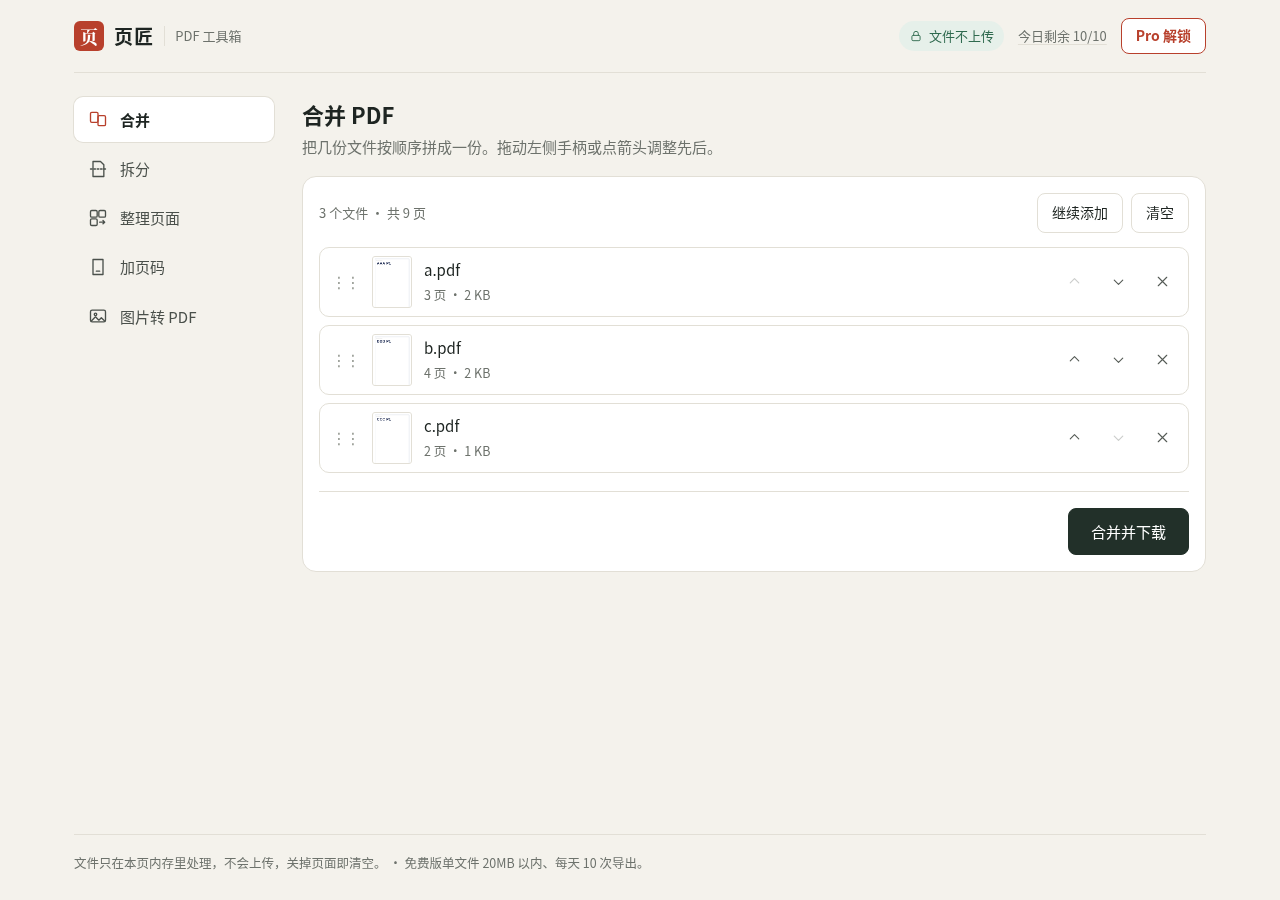
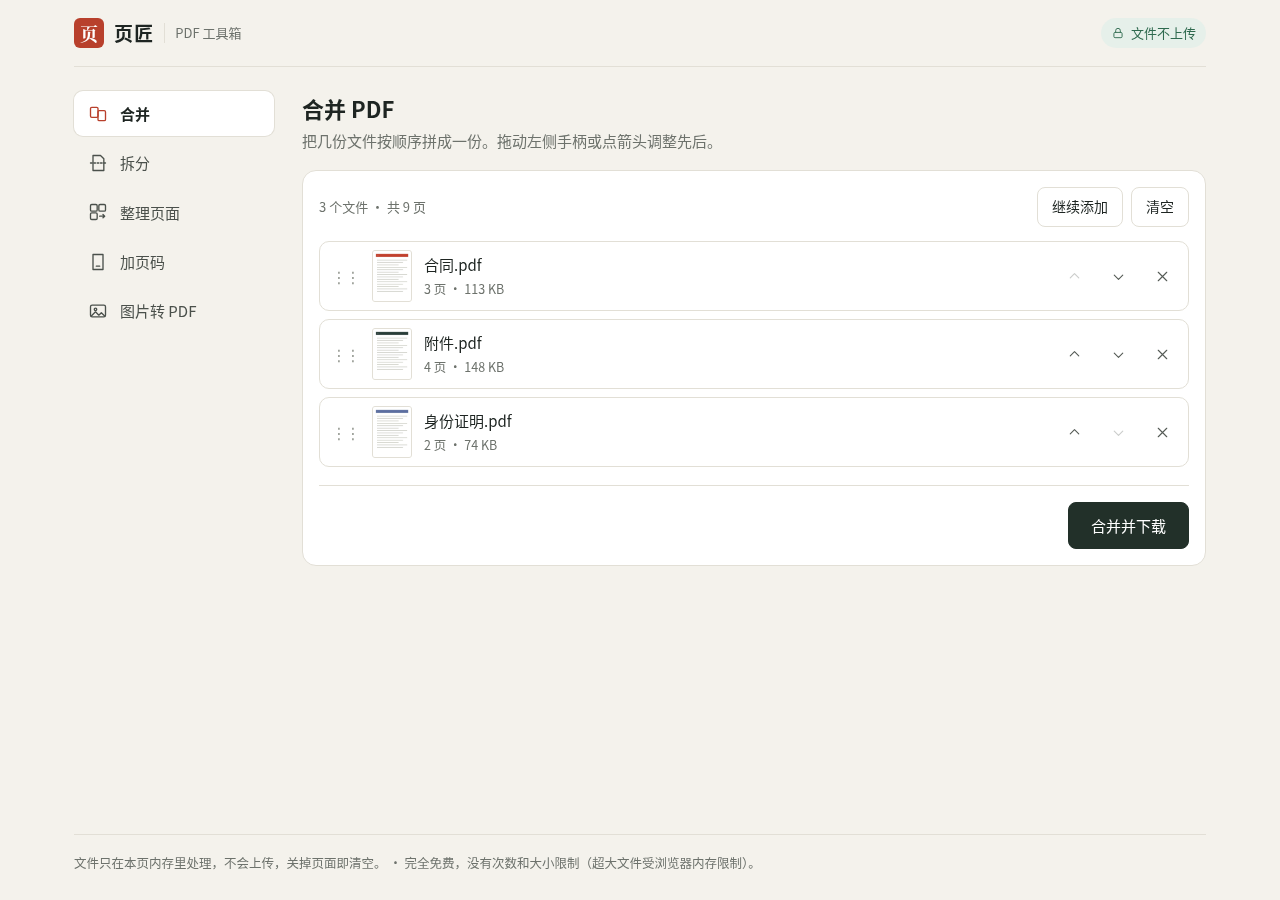
去掉 Pro/授权码/限额，全部功能完全免费

diff --git a/index.html b/index.html
@@ -15,8 +15,6 @@
     <div class="brand"><span class="seal">页</span><b>页匠</b><span class="sub">PDF 工具箱</span></div>
     <div class="top-r">
       <span class="privacy" title="所有处理都在本页内完成，没有任何上传请求"><svg viewBox="0 0 24 24"><rect x="5" y="11" width="14" height="9" rx="2"/><path d="M8 11V8a4 4 0 0 1 8 0v3"/></svg>文件不上传</span>
-      <button id="usage" class="usage" type="button"></button>
-      <button id="proBtn" class="btn pro" type="button">Pro</button>
     </div>
   </header>
 
@@ -33,7 +31,7 @@
     <section class="panel on" id="p-merge">
       <div class="ph"><h2>合并 PDF</h2><p>把几份文件按顺序拼成一份。拖动左侧手柄或点箭头调整先后。</p></div>
       <label class="drop" id="drop-merge"><input type="file" accept="application/pdf,.pdf" multiple>
-        <b>点击选择，或把 PDF 拖到这里</b><span>可多选 · 免费版最多合并 5 个文件</span></label>
+        <b>点击选择，或把 PDF 拖到这里</b><span>可多选 · 合并个数不限</span></label>
       <div class="work" hidden>
         <div class="bar"><span id="merge-info" class="muted"></span><span class="sp"></span>
           <label class="btn ghost addmore">继续添加<input type="file" accept="application/pdf,.pdf" multiple hidden></label>
@@ -47,7 +45,7 @@
     <section class="panel" id="p-split">
       <div class="ph"><h2>拆分 / 提取页面</h2><p>输入页码范围，或直接点缩略图选页。</p></div>
       <label class="drop" id="drop-split"><input type="file" accept="application/pdf,.pdf">
-        <b>点击选择，或把 PDF 拖到这里</b><span>单个文件 · 20MB 以内</span></label>
+        <b>点击选择，或把 PDF 拖到这里</b><span>单个文件</span></label>
       <div class="work" hidden>
         <div class="bar"><span id="split-info" class="muted"></span><span class="sp"></span>
           <button class="btn ghost" data-act="clear" type="button">换一个文件</button></div>
@@ -57,8 +55,8 @@
         </div>
         <div class="seg" id="split-mode">
           <label><input type="radio" name="smode" value="one" checked><span>所选页合成一个文件</span></label>
-          <label><input type="radio" name="smode" value="ranges"><span>每个范围单独成文件 <i class="tag">Pro</i></span></label>
-          <label><input type="radio" name="smode" value="each"><span>每页一个文件 <i class="tag">Pro</i></span></label>
+          <label><input type="radio" name="smode" value="ranges"><span>每个范围单独成文件</span></label>
+          <label><input type="radio" name="smode" value="each"><span>每页一个文件</span></label>
         </div>
         <div class="grid sm" id="split-grid"></div>
         <div class="actions"><span id="split-sel" class="muted"></span><button class="btn primary" id="split-go" type="button">提取并下载</button></div>
@@ -69,7 +67,7 @@
     <section class="panel" id="p-organize">
       <div class="ph"><h2>整理页面</h2><p>旋转、删除、拖拽调整顺序，所见即所得。</p></div>
       <label class="drop" id="drop-organize"><input type="file" accept="application/pdf,.pdf">
-        <b>点击选择，或把 PDF 拖到这里</b><span>单个文件 · 20MB 以内</span></label>
+        <b>点击选择，或把 PDF 拖到这里</b><span>单个文件</span></label>
       <div class="work" hidden>
         <div class="bar"><span id="org-info" class="muted"></span><span class="sp"></span>
           <button class="btn ghost" data-act="rl" type="button">全部左转</button>
@@ -85,7 +83,7 @@
     <section class="panel" id="p-pagenum">
       <div class="ph"><h2>添加页码</h2><p>选位置和样式，一键写入每一页。已旋转的页面也会摆正。</p></div>
       <label class="drop" id="drop-pagenum"><input type="file" accept="application/pdf,.pdf" multiple>
-        <b>点击选择，或把 PDF 拖到这里</b><span>免费版一次一个文件，Pro 可批量并打包 ZIP</span></label>
+        <b>点击选择，或把 PDF 拖到这里</b><span>可多选批量处理，多个文件自动打包 ZIP</span></label>
       <div class="work" hidden>
         <div class="bar"><span id="pn-info" class="muted"></span><span class="sp"></span>
           <button class="btn ghost" data-act="clear" type="button">换文件</button></div>
@@ -114,7 +112,7 @@
     <section class="panel" id="p-img">
       <div class="ph"><h2>图片转 PDF</h2><p>照片、截图、扫描件按顺序排成一份 PDF。手机拍照的方向会自动摆正。</p></div>
       <label class="drop" id="drop-img"><input type="file" accept="image/*" multiple>
-        <b>点击选择，或把图片拖到这里</b><span>JPG / PNG / WebP 等 · 免费版最多 20 张</span></label>
+        <b>点击选择，或把图片拖到这里</b><span>JPG / PNG / WebP 等 · 张数不限</span></label>
       <div class="work" hidden>
         <div class="bar"><span id="img-info" class="muted"></span><span class="sp"></span>
           <label class="btn ghost addmore">继续添加<input type="file" accept="image/*" multiple hidden></label>
@@ -131,29 +129,9 @@
     <div class="result" id="result" hidden><span class="ok">✓</span><span id="result-t"></span><a class="btn ghost" id="result-a" href="#">再次下载</a></div>
   </main>
 
-  <footer class="foot">文件只在本页内存里处理，不会上传，关掉页面即清空。 · 免费版单文件 20MB 以内、每天 10 次导出。</footer>
+  <footer class="foot">文件只在本页内存里处理，不会上传，关掉页面即清空。 · 完全免费，没有次数和大小限制（超大文件受浏览器内存限制）。</footer>
 </div>
 
-<div class="modal" id="modal" hidden>
-  <div class="sheet" role="dialog" aria-modal="true" aria-labelledby="m-t">
-    <button class="x" id="m-x" type="button" aria-label="关闭">×</button>
-    <h3 id="m-t">页匠 Pro</h3>
-    <p class="muted" id="m-why">解除免费版限制，适合经常处理文件的人。</p>
-    <table class="cmp"><tr><th></th><th>免费</th><th>Pro</th></tr>
-      <tr><td>单文件大小</td><td>20MB</td><td>不限制</td></tr>
-      <tr><td>每天导出</td><td>10 次</td><td>不限次数</td></tr>
-      <tr><td>合并文件数</td><td>5 个</td><td>不限</td></tr>
-      <tr><td>图片转 PDF 张数</td><td>20 张</td><td>不限</td></tr>
-      <tr><td>批量加页码 / 按范围拆成多文件</td><td>—</td><td>✓ 打包 ZIP</td></tr>
-    </table>
-    <div id="m-state" class="state" hidden>当前已解锁 Pro。<button class="btn ghost" id="m-off" type="button">移除授权码</button></div>
-    <div id="m-form">
-      <label class="fld">授权码<input id="m-key" type="text" autocomplete="off" spellcheck="false" placeholder="PBOX-XXXX-XXXX-XXXX"></label>
-      <div class="actions"><span id="m-msg" class="muted"></span><button class="btn primary" id="m-ok" type="button">解锁</button></div>
-      <p class="hint">授权码只在本机校验并保存在浏览器里。购买入口暂未开通。</p>
-    </div>
-  </div>
-</div>
 <div class="busy" id="busy" hidden><div><i class="spin"></i><span id="busy-t">处理中…</span></div></div>
 <div class="toast" id="toast" role="status" hidden></div>
 

diff --git a/tests/smoke.js b/tests/smoke.js
@@ -1,0 +1,66 @@
+// 自测：先 python3 -m http.server 8768 &，再 node tests/smoke.js（需 puppeteer-core、本机 Chrome、Pillow）
+const puppeteer = require('puppeteer-core'), { execSync } = require('child_process'), fs = require('fs'), os = require('os'), path = require('path');
+const URL_ = process.env.URL || 'http://localhost:8768/index.html';
+let fail = 0; const ok = (c, m) => { console.log((c ? '  ✓ ' : '  ✗ FAIL: ') + m); if (!c) fail++; };
+(async () => {
+  const dir = fs.mkdtempSync(path.join(os.tmpdir(), 'pb-'));
+  execSync(`python3 -c "
+from PIL import Image
+import random
+for i in range(8):
+    pages=[Image.new('RGB',(600,800),(30*i%255,100,200-10*i)) for _ in range(3)]
+    pages[0].save('${dir}/a%d.pdf'%i,save_all=True,append_images=pages[1:])
+# 超过 20MB 的 PDF（原免费版会拦）
+big=[Image.frombytes('RGB',(3000,2400),random.randbytes(3000*2400*3)) for _ in range(4)]
+big[0].save('${dir}/big.pdf',save_all=True,append_images=big[1:],quality=98)
+for i in range(25): Image.new('RGB',(400,300),(i*9,80,160)).save('${dir}/i%02d.png'%i)
+"`);
+  const size = fs.statSync(path.join(dir, 'big.pdf')).size;
+  const pdfs = [...Array(8).keys()].map(i => path.join(dir, `a${i}.pdf`)), imgs = [...Array(25).keys()].map(i => path.join(dir, `i${String(i).padStart(2, '0')}.png`));
+  const b = await puppeteer.launch({ executablePath: '/usr/bin/google-chrome', headless: 'new', args: ['--no-sandbox'] });
+  const p = await b.newPage(); const errs = []; p.on('pageerror', e => errs.push(e.message));
+  await p.goto(URL_, { waitUntil: 'networkidle0' });
+  const html0 = await p.evaluate(() => document.documentElement.outerHTML);
+  ok(!/Pro\b|授权码|付费|收费|解锁|今日剩余|免费版/.test(html0), '页面不含 Pro/授权码/付费/解锁/免费版限额字样');
+  ok(!(await p.$('#proBtn')) && !(await p.$('#usage')) && !(await p.$('#modal')) && !(await p.$('#m-key')), '无 Pro 按钮/用量/弹窗/授权码输入');
+  ok(html0.includes('完全免费'), '页面标明完全免费');
+  const res = () => p.$eval('#result-t', e => e.textContent);
+  const waitRes = async (prev) => { await p.waitForFunction((x) => { const r = document.querySelector('#result'); return !r.hidden && document.querySelector('#result-t').textContent !== x; }, { timeout: 90000 }, prev); return res(); };
+  // 合并：8 个文件（原限 5），连续导出 12 次（原限每天 10 次）
+  await (await p.$('#drop-merge input')).uploadFile(...pdfs);
+  await p.waitForFunction(() => document.querySelectorAll('#merge-list > *').length === 8, { timeout: 30000 }).catch(() => {});
+  const mc = await p.$$eval('#merge-list > *', e => e.length);
+  ok(mc === 8, '一次合并 8 个文件无个数限制，实际 ' + mc);
+  let last = '', names = new Set();
+  for (let i = 0; i < 12; i++) { await p.evaluate(() => { document.querySelector('#result').hidden = true; document.querySelector('#result-t').textContent = ''; }); await p.click('#merge-go'); last = await waitRes(''); names.add(last); }
+  ok(/合并-8个文件\.pdf/.test(last) && /24 页/.test(last), '连续导出 12 次仍可用，最后结果：' + last);
+  // 拆分：大文件 + 每页一个文件（原 Pro）
+  await p.click('#tabs button[data-tool=split]');
+  await (await p.$('#drop-split input')).uploadFile(path.join(dir, 'big.pdf'));
+  await p.waitForFunction(() => document.querySelectorAll('#split-grid .card').length > 0, { timeout: 60000 });
+  ok(size > 20 * 1024 * 1024, '测试 PDF 大小 ' + (size / 1048576).toFixed(1) + 'MB > 20MB，已成功载入');
+  await p.click('#split-mode input[value=each]');
+  ok(await p.$eval('#split-mode input[value=each]', e => e.checked), '“每页一个文件”可直接选中');
+  await p.click('#p-split .chips button[data-q=all]');
+  await p.click('#split-go'); const z = await waitRes('');
+  ok(/\.zip/.test(z) && /4 个文件/.test(z), '逐页拆分打包 ZIP：' + z);
+  // 页码：批量多个文件（原 Pro）
+  await p.click('#tabs button[data-tool=pagenum]');
+  await (await p.$('#drop-pagenum input')).uploadFile(pdfs[0], pdfs[1], pdfs[2]);
+  await p.waitForFunction(() => /批量/.test(document.querySelector('#pn-info').textContent), { timeout: 30000 });
+  await p.evaluate(() => { document.querySelector('#result').hidden = true; });
+  await p.click('#pn-go'); const pz = await waitRes('');
+  ok(/\.zip/.test(pz) && /3 个文件/.test(pz), '批量加页码打包 ZIP：' + pz);
+  // 图片转 PDF：25 张（原限 20）
+  await p.click('#tabs button[data-tool=img]');
+  await (await p.$('#drop-img input')).uploadFile(...imgs);
+  await p.waitForFunction(() => document.querySelectorAll('#img-grid > *').length === 25, { timeout: 30000 }).catch(() => {});
+  const ic = await p.$$eval('#img-grid > *', e => e.length); ok(ic === 25, '图片 25 张全部加入，实际 ' + ic);
+  await p.evaluate(() => { document.querySelector('#result').hidden = true; });
+  await p.click('#img-go'); const ir = await waitRes('');
+  ok(/图片合集-25张\.pdf/.test(ir), '25 张图转 PDF：' + ir);
+  ok(await p.evaluate(() => !localStorage.getItem('pdfbox.use') && !localStorage.getItem('pdfbox.key')), '不再读写用量/授权存储');
+  ok(errs.length === 0, '无脚本错误 ' + errs.join(';'));
+  await b.close(); fs.rmSync(dir, { recursive: true });
+  console.log(fail ? '失败 ' + fail : '全部通过'); process.exit(fail ? 1 : 0);
+})().catch(e => { console.error(e); process.exit(2); });

diff --git a/style.css b/style.css
@@ -14,13 +14,10 @@ svg{width:20px;height:20px;fill:none;stroke:currentColor;stroke-width:1.6;stroke
 .top-r{display:flex;align-items:center;gap:10px}
 .privacy{display:flex;align-items:center;gap:6px;font-size:13px;color:#2f6a4f;background:#e6f0ea;padding:5px 10px;border-radius:99px;white-space:nowrap}
 .privacy svg{width:14px;height:14px}
-.usage{white-space:nowrap;background:none;border:0;color:var(--mute);font-size:13px;cursor:pointer;padding:6px 4px;text-decoration:underline;text-decoration-color:var(--line);text-underline-offset:3px}
 .btn{display:inline-flex;align-items:center;justify-content:center;gap:6px;border:1px solid var(--line);background:var(--card);border-radius:8px;padding:8px 14px;cursor:pointer;font-size:14px;white-space:nowrap;transition:background .12s,border-color .12s}
 .btn:hover{border-color:#c9c5b9;background:#faf9f6}
 .btn.primary{background:var(--dk);border-color:var(--dk);color:#fff;padding:11px 22px;font-size:15px}
 .btn.primary:hover{background:#17211b}
-.btn.pro{border-color:var(--ac);color:var(--ac);font-weight:600;padding:6px 14px}
-.btn.pro.on{background:var(--ac);color:#fff}
 .btn.ghost{background:transparent}
 .btn:disabled{opacity:.45;cursor:not-allowed}
 .tabs{grid-area:nav;display:flex;flex-direction:column;gap:4px;align-self:start;position:sticky;top:16px}
@@ -90,7 +87,6 @@ main{grid-area:main;min-width:0;padding-bottom:40px}
 .seg span{display:inline-flex;align-items:center;gap:6px;border:1px solid var(--line);border-radius:8px;padding:7px 12px;font-size:13.5px;background:#fff}
 .seg input:checked+span{border-color:var(--dk);background:var(--sel);font-weight:600}
 .seg input:focus-visible+span{outline:2px solid #d9a99f}
-.tag{font-style:normal;font-size:11px;color:var(--ac);border:1px solid var(--ac);border-radius:4px;padding:0 4px;line-height:16px}
 .pn-wrap{display:grid;grid-template-columns:minmax(200px,300px) 1fr;gap:24px;align-items:start}
 .pn-prev{background:#f3f1ea;border-radius:10px;padding:16px;display:grid;place-items:center;min-height:260px}
 .pv{position:relative;display:inline-block;line-height:0;box-shadow:0 2px 10px rgba(0,0,0,.18);background:#fff}
@@ -109,15 +105,7 @@ input[type=range]{width:100%;accent-color:var(--dk)}
 .result .btn{color:#fff;border-color:#ffffff55}
 .result .btn:hover{background:#ffffff1a}
 .foot{grid-area:foot;color:var(--mute);font-size:12.5px;padding:18px 0 28px;border-top:1px solid var(--line)}
-.modal{position:fixed;inset:0;background:rgba(25,30,27,.45);display:grid;place-items:center;padding:16px;z-index:20}
-.sheet{position:relative;background:#fff;border-radius:14px;padding:24px;width:min(460px,100%);max-height:92vh;overflow:auto}
-.sheet h3{margin:0 0 4px;font-size:19px}
 .x{position:absolute;right:12px;top:10px;width:34px;height:34px;border:0;background:none;font-size:26px;cursor:pointer;color:var(--mute)}
-.cmp{width:100%;border-collapse:collapse;margin:14px 0 18px;font-size:14px}
-.cmp th,.cmp td{padding:8px 6px;border-bottom:1px solid var(--line);text-align:left}
-.cmp th{color:var(--mute);font-weight:500;font-size:13px}
-.cmp td:last-child{color:var(--ac);font-weight:600}
-.state{background:#e6f0ea;color:#2f6a4f;border-radius:8px;padding:10px 12px;display:flex;align-items:center;justify-content:space-between;gap:8px;margin-bottom:6px}
 .busy{position:fixed;inset:0;background:rgba(244,242,236,.7);display:grid;place-items:center;z-index:30}
 .busy>div{background:#fff;border:1px solid var(--line);border-radius:12px;padding:14px 20px;display:flex;gap:12px;align-items:center;box-shadow:0 6px 20px rgba(0,0,0,.1)}
 .spin{width:18px;height:18px;border:2px solid var(--line);border-top-color:var(--ac);border-radius:50%;animation:sp .8s linear infinite}
@@ -128,8 +116,7 @@ input[type=range]{width:100%;accent-color:var(--dk)}
  .top{padding:12px 0;margin-bottom:14px}
  .brand .sub,.privacy span{display:none}
  .privacy{padding:6px}
- .usage{font-size:12px}
- .tabs{position:fixed;left:0;right:0;bottom:0;top:auto;flex-direction:row;background:#fbfaf7;border-top:1px solid var(--line);padding:6px 6px calc(6px + env(safe-area-inset-bottom));gap:0;z-index:10}
+  .tabs{position:fixed;left:0;right:0;bottom:0;top:auto;flex-direction:row;background:#fbfaf7;border-top:1px solid var(--line);padding:6px 6px calc(6px + env(safe-area-inset-bottom));gap:0;z-index:10}
  .tabs button{flex:1;flex-direction:column;gap:2px;padding:6px 2px;font-size:11.5px;align-items:center;text-align:center;border-radius:8px}
  .tabs button.on{box-shadow:none;background:#efece4}
  .ph h2{font-size:20px}

diff --git a/tests/shots.js b/tests/shots.js
@@ -1,0 +1,36 @@
+// 生成 screenshots/：python3 -m http.server 8768 & ; node tests/shots.js（示例文件为程序生成的虚构内容）
+const puppeteer = require('puppeteer-core'), { execSync } = require('child_process'), fs = require('fs'), os = require('os'), path = require('path');
+const URL_ = process.env.URL || 'http://localhost:8768/index.html';
+(async () => {
+  const dir = fs.mkdtempSync(path.join(os.tmpdir(), 'pbs-'));
+  execSync(`python3 -c "
+from PIL import Image, ImageDraw, ImageFont
+def mk(name, n, title, col):
+    pages=[]
+    for i in range(n):
+        im=Image.new('RGB',(794,1123),'white'); d=ImageDraw.Draw(im)
+        d.rectangle((60,60,734,120),fill=col); d.text((80,80),'%s  P%d'%(title,i+1),fill='white')
+        for k in range(14): d.rectangle((80,180+k*50,714-(k%3)*90,196+k*50),fill=(215,215,210))
+        pages.append(im)
+    pages[0].save('${dir}/'+name,save_all=True,append_images=pages[1:])
+mk('合同.pdf',3,'Contract',(193,63,45)); mk('附件.pdf',4,'Appendix',(40,60,56)); mk('身份证明.pdf',2,'ID',(90,110,160))
+for i in range(4): Image.new('RGB',(900,600),(200-i*30,170,120+i*20)).save('${dir}/照片%d.jpg'%(i+1))
+"`);
+  const pdfs = ['合同.pdf', '附件.pdf', '身份证明.pdf'].map(f => path.join(dir, f)), imgs = [1, 2, 3, 4].map(i => path.join(dir, `照片${i}.jpg`));
+  const b = await puppeteer.launch({ executablePath: '/usr/bin/google-chrome', headless: 'new', args: ['--no-sandbox', '--lang=zh-CN'] });
+  const sleep = ms => new Promise(r => setTimeout(r, ms));
+  for (const mobile of [false, true]) {
+    const p = await (await b.createBrowserContext()).newPage();
+    await p.setViewport(mobile ? { width: 390, height: 844, isMobile: true, deviceScaleFactor: 2 } : { width: 1280, height: 900 });
+    await p.goto(URL_, { waitUntil: 'networkidle0' });
+    const S = n => p.screenshot({ path: `screenshots/${n}.png` });
+    const tab = async t => { await p.click(`#tabs button[data-tool=${t}]`); await sleep(300); };
+    if (!mobile) await S('01-desktop-home'); else await S('m1-home');
+    await (await p.$('#drop-merge input')).uploadFile(...pdfs); await sleep(1500); await S(mobile ? 'm2-merge' : '02-desktop-merge');
+    await tab('split'); await (await p.$('#drop-split input')).uploadFile(pdfs[1]); await sleep(1500); await p.click('#p-split .chips button[data-q=odd]'); await sleep(300); await S(mobile ? 'm5-split' : '04-desktop-split');
+    await tab('organize'); await (await p.$('#drop-organize input')).uploadFile(pdfs[0]); await sleep(1500); await S(mobile ? 'm3-organize' : '05-desktop-organize');
+    await tab('pagenum'); await (await p.$('#drop-pagenum input')).uploadFile(pdfs[1]); await sleep(1500); await S(mobile ? 'm4-pagenum' : '06-desktop-pagenum');
+    if (!mobile) { await tab('img'); await (await p.$('#drop-img input')).uploadFile(...imgs); await sleep(1200); await S('07-desktop-img'); }
+  }
+  await b.close(); fs.rmSync(dir, { recursive: true });
+})();

diff --git a/README.md b/README.md
@@ -14,11 +14,9 @@
 | 加页码 | 6 个位置、4 种格式、起始数字、跳过前几页；已旋转的页面也会摆正 |
 | 图片转 PDF | JPG/PNG/WebP 等，A4 / Letter / 与图片等大，自动按 EXIF 摆正手机照片 |
 
-## 免费版与 Pro
+## 完全免费
 
-- 免费：单文件 20MB 以内、每天 10 次导出、一次最多合并 5 个文件、图片转 PDF 最多 20 张。
-- Pro：不限制上述额度；批量加页码、按范围/逐页拆成多个文件，打包 ZIP。
-- 授权码入口已做好，但**购买渠道未接入**。`app.js` 里的 `keyOk` 只是占位校验（本地校验和），谁都能算出来，**不能当真正的防盗版**。正式发售时请改为服务端签发 + 本地公钥验签，且不要把私钥放进前端。
+没有任何功能锁、次数或大小限制：合并个数不限、图片转 PDF 张数不限、每天导出次数不限，批量加页码和按范围 / 逐页拆分（打包 ZIP）都可直接使用。文件只在你的浏览器里处理，不上传。唯一的实际上限是你的浏览器可用内存（特别大的 PDF 在手机上可能较慢）。
 
 ## 本地运行
 
